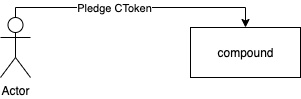
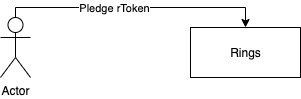
update overview document and design document of Rings

Changed region(s): [[0.2392, 0.0303, 0.5083, 0.1515], [0.7176, 0.4848, 0.9269, 0.6061]]

diff --git a/developer/rings/design.md b/developer/rings/design.md
@@ -4,52 +4,191 @@ sidebar_position: 2
 date: 2021-03-20 12:38:07
 ---
 
-Compound is an implementation of MTG and a parachain of Mixin network.
+# Design
+
+## Architecture
+
+Rings is an implementation of MTG and a parachain of Mixin network.
 
 ![](design/architecture.jpg)
 
+#### Mixin MTG struct
+
+![](design/mixin_mtg_struct.jpg)
+
+
+#### MTG system data flow
 * The user transfers a payment(UTXO) that carries business data to the Mixin network.
-* Compound syncs the outputs(UTXO) by parsing the business data(in output.memo)
-* Compound dispatchs the business action(included in business data) and processes each action(supply, borrow...)
+* Rings syncs the outputs(UTXO) by parsing the business data(in output.memo)
+* Rings dispatchs the business action(included in business data) and processes each action(supply, borrow...)
 
 ![](design/workflow.jpg)
 
-## APIs
+In MTG system, There are two main roles, one is `Payee`, and the another is `cashier`, All business logic is implemented based on these two roles.
 
-[Rest APIs](https://github.com/fox-one/compound/blob/master/handler/rest/rest.go) exported for application layer, including:
+* `Payee` receiving the outputs(transactions), decoding the business data from `Output.Memo`, dispatching `actions`
+![](design/f_payee.jpg)
+
+* `cashier` spending the token, transfering the token to user
+![](design/f_cashier.jpg)
+
+#### Rings actions
+
+* `Supply`, Suppose users supply the underlying token `ETH` and gain the equity token `cETH`
+  ![](design/tl_supply.jpg)
+
+* `Pledge`, Suppose users pledge the equity token `cETH`, meains that users should pay `cETH` to the Rings system
+  ![](design/tl_pledge.jpg)
+
+* `Unpledge`, Suppose users unpledge the equity token `cETH`, meains that users should pay some gas `CNB` and will get the equity token `cETH` back
+  ![](design/tl_unpledge.jpg)
+
+* `Redeem`, Suppose users redeem the underlying token `ETH` from the system, means that users should pay equity token `cETH` and whill get the quivalent underlying token `ETH` back
+  ![](design/tl_redeem.jpg)
+
+* `Borrow`, Suppose users need to borrow the underlying token `USDT`, means that users should pay some gas `CNB` and will gain the expected underlying token `USDT`
+  ![](design/tl_borrow.jpg)
+
+* `Repay`, Suppose users repay `USDT`, means that users pay `USDT` and the users' debt will be reduced
+  ![](design/tl_repay.jpg)
+
+* `quick_pledge`, Suppose users supply the underlying token `ETH` and no equity token `cETH` returns to users
+  ![](design/tl_quick_pledge.jpg)
+* `qick_redeem`, Suppose users redeem `ETH`, users only pay some gas `CNB`, and will get the underlying token `ETH` back
+  ![](design/tl_quick_redeem.jpg)
+* `quick_borrow`, Suppose users can supply `ETH` or `cETH` and can borrow `USDT` directory
+  ![](design/tl_quick_borrow.jpg)
+  
+
+* `Liquidation`, Suppose User A has Pledged `ETH` and Borrowed `USDT`, once The liquidity of user A's account less than or equal zero, it can be liquidated by other users
+  ![](design/tl_liquidation.jpg)
+
+* `Proposal actions`, all governance work produces effects through proposal voting, the current proposals include these: 
+    1. `market` for creating market or updating market
+    2. `open-market` for opening market
+    3. `close-market` for closing market
+    4. `allowlist` whether to allow liquidation
+    5. `add-oracle-signer` add the price oracle signer that provides market price
+    6. `rm-oracle-signer` remove the price oracle signer
+    7. `withdraw` withdraw the reserves from the market
+   ![](design/f_proposal.jpg)
+
+## Code struct
 
 ```
-/markets                // response of all markets
-/markets/{asset}        // response of the market info of the specified asset
-/liquidities/{address}  // response of user liquidities
-/supplies               // response of supply datas
-/borrows                // response of borrow datas
-/transactions           // response of transactions
+
+---
+|-cmd      
+|-config  
+|-deploy  
+|-docs    
+|-core 
+|-pkg     
+|-service 
+|-store   
+|-worker  
+|-handler    
+|-Dockerfile 
+|-Makefile
+|-main.go 
+
 ```
 
-## Workers
+* [cmd](https://github.com/fox-one/compound/tree/master/cmd) command entry, including start api server and worker and governance tools
+* [config](https://github.com/fox-one/compound/tree/master/config) default config directory
+* [docs](https://github.com/fox-one/compound/tree/master/docs) project documents
+* [core](https://github.com/fox-one/compound/tree/master/core) directory of project's models
+* [pkg](https://github.com/fox-one/compound/tree/master/pkg) project packages that can be exported
+* [service](https://github.com/fox-one/compound/tree/master/service) directory of business codes
+* [store](https://github.com/fox-one/compound/tree/master/store) data repository(data may be stored in database or redis or memory cache)
+* [worker](https://github.com/fox-one/compound/tree/master/worker) directory for jobs that processing data in background
+* [handler](https://github.com/fox-one/compound/tree/master/handler) just for exported apis
+* [Dockerfile](https://github.com/fox-one/compound/tree/master/Dockerfile) for deployment
+* [deploy](https://github.com/fox-one/compound/tree/master/deploy) store configs and tools of deployment
+* [main.go](https://github.com/fox-one/compound/tree/master/main.go)
+* [Makefile](https://github.com/fox-one/compound/tree/master/Makefile)
 
-* [cashier](https://github.com/fox-one/compound/blob/master/worker/cashier/cashier.go) Processes the pending transfers. prepare for transfering a transaction to Mixin network.
-* [syncer](https://github.com/fox-one/compound/blob/master/worker/syncer/syncer.go) Syncs the outputs(UTXO) from Mixin network.
-* [txsender](https://github.com/fox-one/compound/blob/master/worker/txsender/sender.go) Transfers raw transaction to Mixin network.
-* [spentsync](https://github.com/fox-one/compound/blob/master/worker/spentsync/spentsync.go) syncs and updates the transfer state.
-* [priceoracle](https://github.com/fox-one/compound/blob/master/worker/priceoracle/priceoracle.go) Fetches a price and put the price on the chain.
-* [payee](https://github.com/fox-one/compound/blob/master/worker/snapshot/payee.go) processes outputs and dispatches business actions.
+### [configuration template](https://github.com/fox-one/compound/tree/master/deploy/config.node.yaml.tpl)
 
-## Action processing
+```
+# Fixed value : 1603382400 
+genesis: 1603382400
+# time localtion
+location: Asia/Shanghai
 
-* [borrow](https://github.com/fox-one/compound/blob/master/worker/snapshot/borrow.go) handles the borrow action event.
-* [supply](https://github.com/fox-one/compound/blob/master/worker/snapshot/supply.go) handles the supply action event.
-* [pledge](https://github.com/fox-one/compound/blob/master/worker/snapshot/supply_pledge.go) handles the pledge action event.
-* [unpledge](https://github.com/fox-one/compound/blob/master/worker/snapshot/supply_unpledge.go) handles the unpledge action event.
-* [redeem](https://github.com/fox-one/compound/blob/master/worker/snapshot/supply_redeem.go) handles the redeem action event.
-* [repay](https://github.com/fox-one/compound/blob/master/worker/snapshot/borrow_repay.go) handles the repay action event.
-* [liquidation](https://github.com/fox-one/compound/blob/master/worker/snapshot/liquidation.go) handles the liquidation action event
-* [proposal](https://github.com/fox-one/compound/blob/master/worker/snapshot/proposal.go) handles and dispatches the proposal actions, include: adding market, updating market, closing or opening market, adding or removing allowlist, withdraw
-* [price](https://github.com/fox-one/compound/blob/master/worker/snapshot/price.go) handles the price protocal action event.
+# data base config
+db:
+  dialect: mysql
+  host: ~
+  read_host: ~
+  port: 3306
+  user: ~
+  password: ~
+  database: ~
+  location: Asia%2FShanghai
+  Debug: true
+
+# mixin dapp config
+dapp:
+  num: 7000103159
+  client_id: ~
+  session_id: ~
+  client_secret: ~
+  pin_token: ~
+  pin: ""
+  private_key: ~
+
+# nodes group config
+group:
+# private key shared by all nodes, that generated by the command: ./compound keys --cipher ed25519
+  private_key: ~
+  # The private key used by the current node for user data signing
+  sign_key: ~
+  # administratories of thie node
+  admins:
+    - ~
+    - ~
+    - ~ 
+  # Node member
+  members:
+    - client_id: ~
+    # The public key used by the current node to verify the signature
+      verify_key: ~
+  threshold: 2
+  vote:
+    asset: 965e5c6e-434c-3fa9-b780-c50f43cd955c
+    amount: 0.00000001
+```
+
+#### [Rest APIs](https://github.com/fox-one/compound/tree/master/handler/rest/rest.go) exported for application layer, including:
+
+```
+/markets/all   //response all markets
+/transactions  //response compound transactions
+/price-requests // for price oracle calling
+```
+
+#### Worker
+* [cashier](https://github.com/fox-one/compound/tree/master/worker/cashier/cashier.go) Processes the pending transfers. prepare for transfering a transaction to Mixin network.
+* [syncer](https://github.com/fox-one/compound/tree/master/worker/syncer/syncer.go) Syncs the outputs(UTXO) from Mixin network.
+* [txsender](https://github.com/fox-one/compound/tree/master/worker/txsender/sender.go) Transfers raw transaction to Mixin network.
+* [spentsync](https://github.com/fox-one/compound/tree/master/worker/spentsync/spentsync.go) syncs and updates the transfer state.
+* [priceoracle](https://github.com/fox-one/compound/tree/master/worker/priceoracle/priceoracle.go) Fetches a price and put the price on the chain.
+* [payee](https://github.com/fox-one/compound/tree/master/worker/snapshot/payee.go) processes outputs and dispatches business actions.
+
+#### Action processing
+* [borrow](https://github.com/fox-one/compound/tree/master/worker/snapshot/borrow.go) handles the borrow action event.
+* [supply](https://github.com/fox-one/compound/tree/master/worker/snapshot/supply.go) handles the supply action event.
+* [pledge](https://github.com/fox-one/compound/tree/master/worker/snapshot/supply_pledge.go) handles the pledge action event.
+* [unpledge](https://github.com/fox-one/compound/tree/master/worker/snapshot/supply_unpledge.go) handles the unpledge action event.
+* [redeem](https://github.com/fox-one/compound/tree/master/worker/snapshot/supply_redeem.go) handles the redeem action event.
+* [repay](https://github.com/fox-one/compound/tree/master/worker/snapshot/borrow_repay.go) handles the repay action event.
+* [liquidation](https://github.com/fox-one/compound/tree/master/worker/snapshot/liquidation.go) handles the liquidation action event
+* [proposal](https://github.com/fox-one/compound/tree/master/worker/snapshot/proposal.go) handles and dispatches the proposal actions, include: adding market, updating market, closing or opening market, adding or removing allowlist, withdraw
+* [price](https://github.com/fox-one/compound/tree/master/worker/snapshot/price.go) handles the price protocal action event.
 
 
-## Market Trade-Curbing Mechanism
+### Market Trade-Curbing Mechanism
 
 > Close the market when the price of a certain market is abnormal.
 
@@ -57,13 +196,15 @@ Compound is an implementation of MTG and a parachain of Mixin network.
 * Trades are prohibited in closed markets.
 * However, as long as there are closed markets, liquidation of all markets will be prohibited, because liquidation will affect the liquidity of all market accounts of users.
 
-## The implementation of compound protocol
+## The implementation of compound protocol 
 
-* [Interest rate model](https://github.com/fox-one/compound/blob/master/internal/compound/interest_rate_model.go) is The core implementation of compound protocol.
-* [Borrow balance](https://github.com/fox-one/compound/blob/master/core/borrow.go) user borrow balance contains borrow principal and borrow interest. `balance = borrow.principal * market.borrow_index / borrow.interest_index`
-* [Accrue interest](https://github.com/fox-one/compound/blob/master/service/market/market.go) Accruing interest only occurs when there is a behavior that causes changes in market transaction data, such as supply, borrow, pledge, unpledge, redeem, repay, price updating. And Only calculated once in the same block.
+* [Interest rate model](https://github.com/fox-one/compound/tree/master/internal/compound/interest_rate_model.go) is The core implementation of compound protocol.
 
-```go
+* [Borrow balance](https://github.com/fox-one/compound/tree/master/core/borrow.go) user borrow balance contains borrow principal and borrow interest. `balance = borrow.principal * market.borrow_index / borrow.interest_index`
+
+* [Accrue interest](https://github.com/fox-one/compound/tree/master/service/market/market.go) Accruing interest only occurs when there is a behavior that causes changes in market transaction data, such as supply, borrow, pledge, unpledge, redeem, repay, price updating. And Only calculated once in the same block.
+
+```
 	blockNumberPrior := market.BlockNumber
 
 	blockNum, e := s.blockSrv.GetBlock(ctx, time)

diff --git a/developer/rings/overview.md b/developer/rings/overview.md
@@ -6,7 +6,7 @@ date: 2021-03-20 12:38:07
 
 An implementation of the [compound protocol](https://github.com/compound-finance/compound-protocol) based on [Mixin](https://github.com/MixinNetwork/mixin) [MTG](https://github.com/MixinNetwork/developers.mixin.one/blob/main/developers/src/i18n/en/document/mainnet/mtg.md) technology.
 
-## CToken
+## rToken
 
 The corresponding certificate token you obtain after you supply a number of cetain encrypted currency to the market.
 
@@ -15,25 +15,25 @@ The corresponding certificate token you obtain after you supply a number of ceta
 ### Supply
 
 Users supply encrypted currencies to the market to provide liquidity,
-and obtain the corresponding ctokens. They receive interest yields by providing liquidity.
+and obtain the corresponding rTokens. They receive interest yields by providing liquidity.
 
 ![](overview/uc_supply.jpg)
 
 ### Pledge
 
-Users have to pledge cToken to the market before any borrow.
+Users have to pledge rToken to the market before any borrow.
 
 ![](overview/uc_pledge.jpg)
 
 ### Unpledge
 
-Users take back the cToken that pledged to the market.
+Users take back the rToken that pledged to the market.
 
 ![](overview/uc_unpledge.jpg)
 
 ### Redeem
 
-Users return the CToken in exchange for corresponding encrypted currency that were supplied before, including interest yields as the reward for providing liquidity.
+Users return the rToken in exchange for corresponding encrypted currency that were supplied before, including interest yields as the reward for providing liquidity.
 
 ![](overview/uc_redeem.jpg)
 
